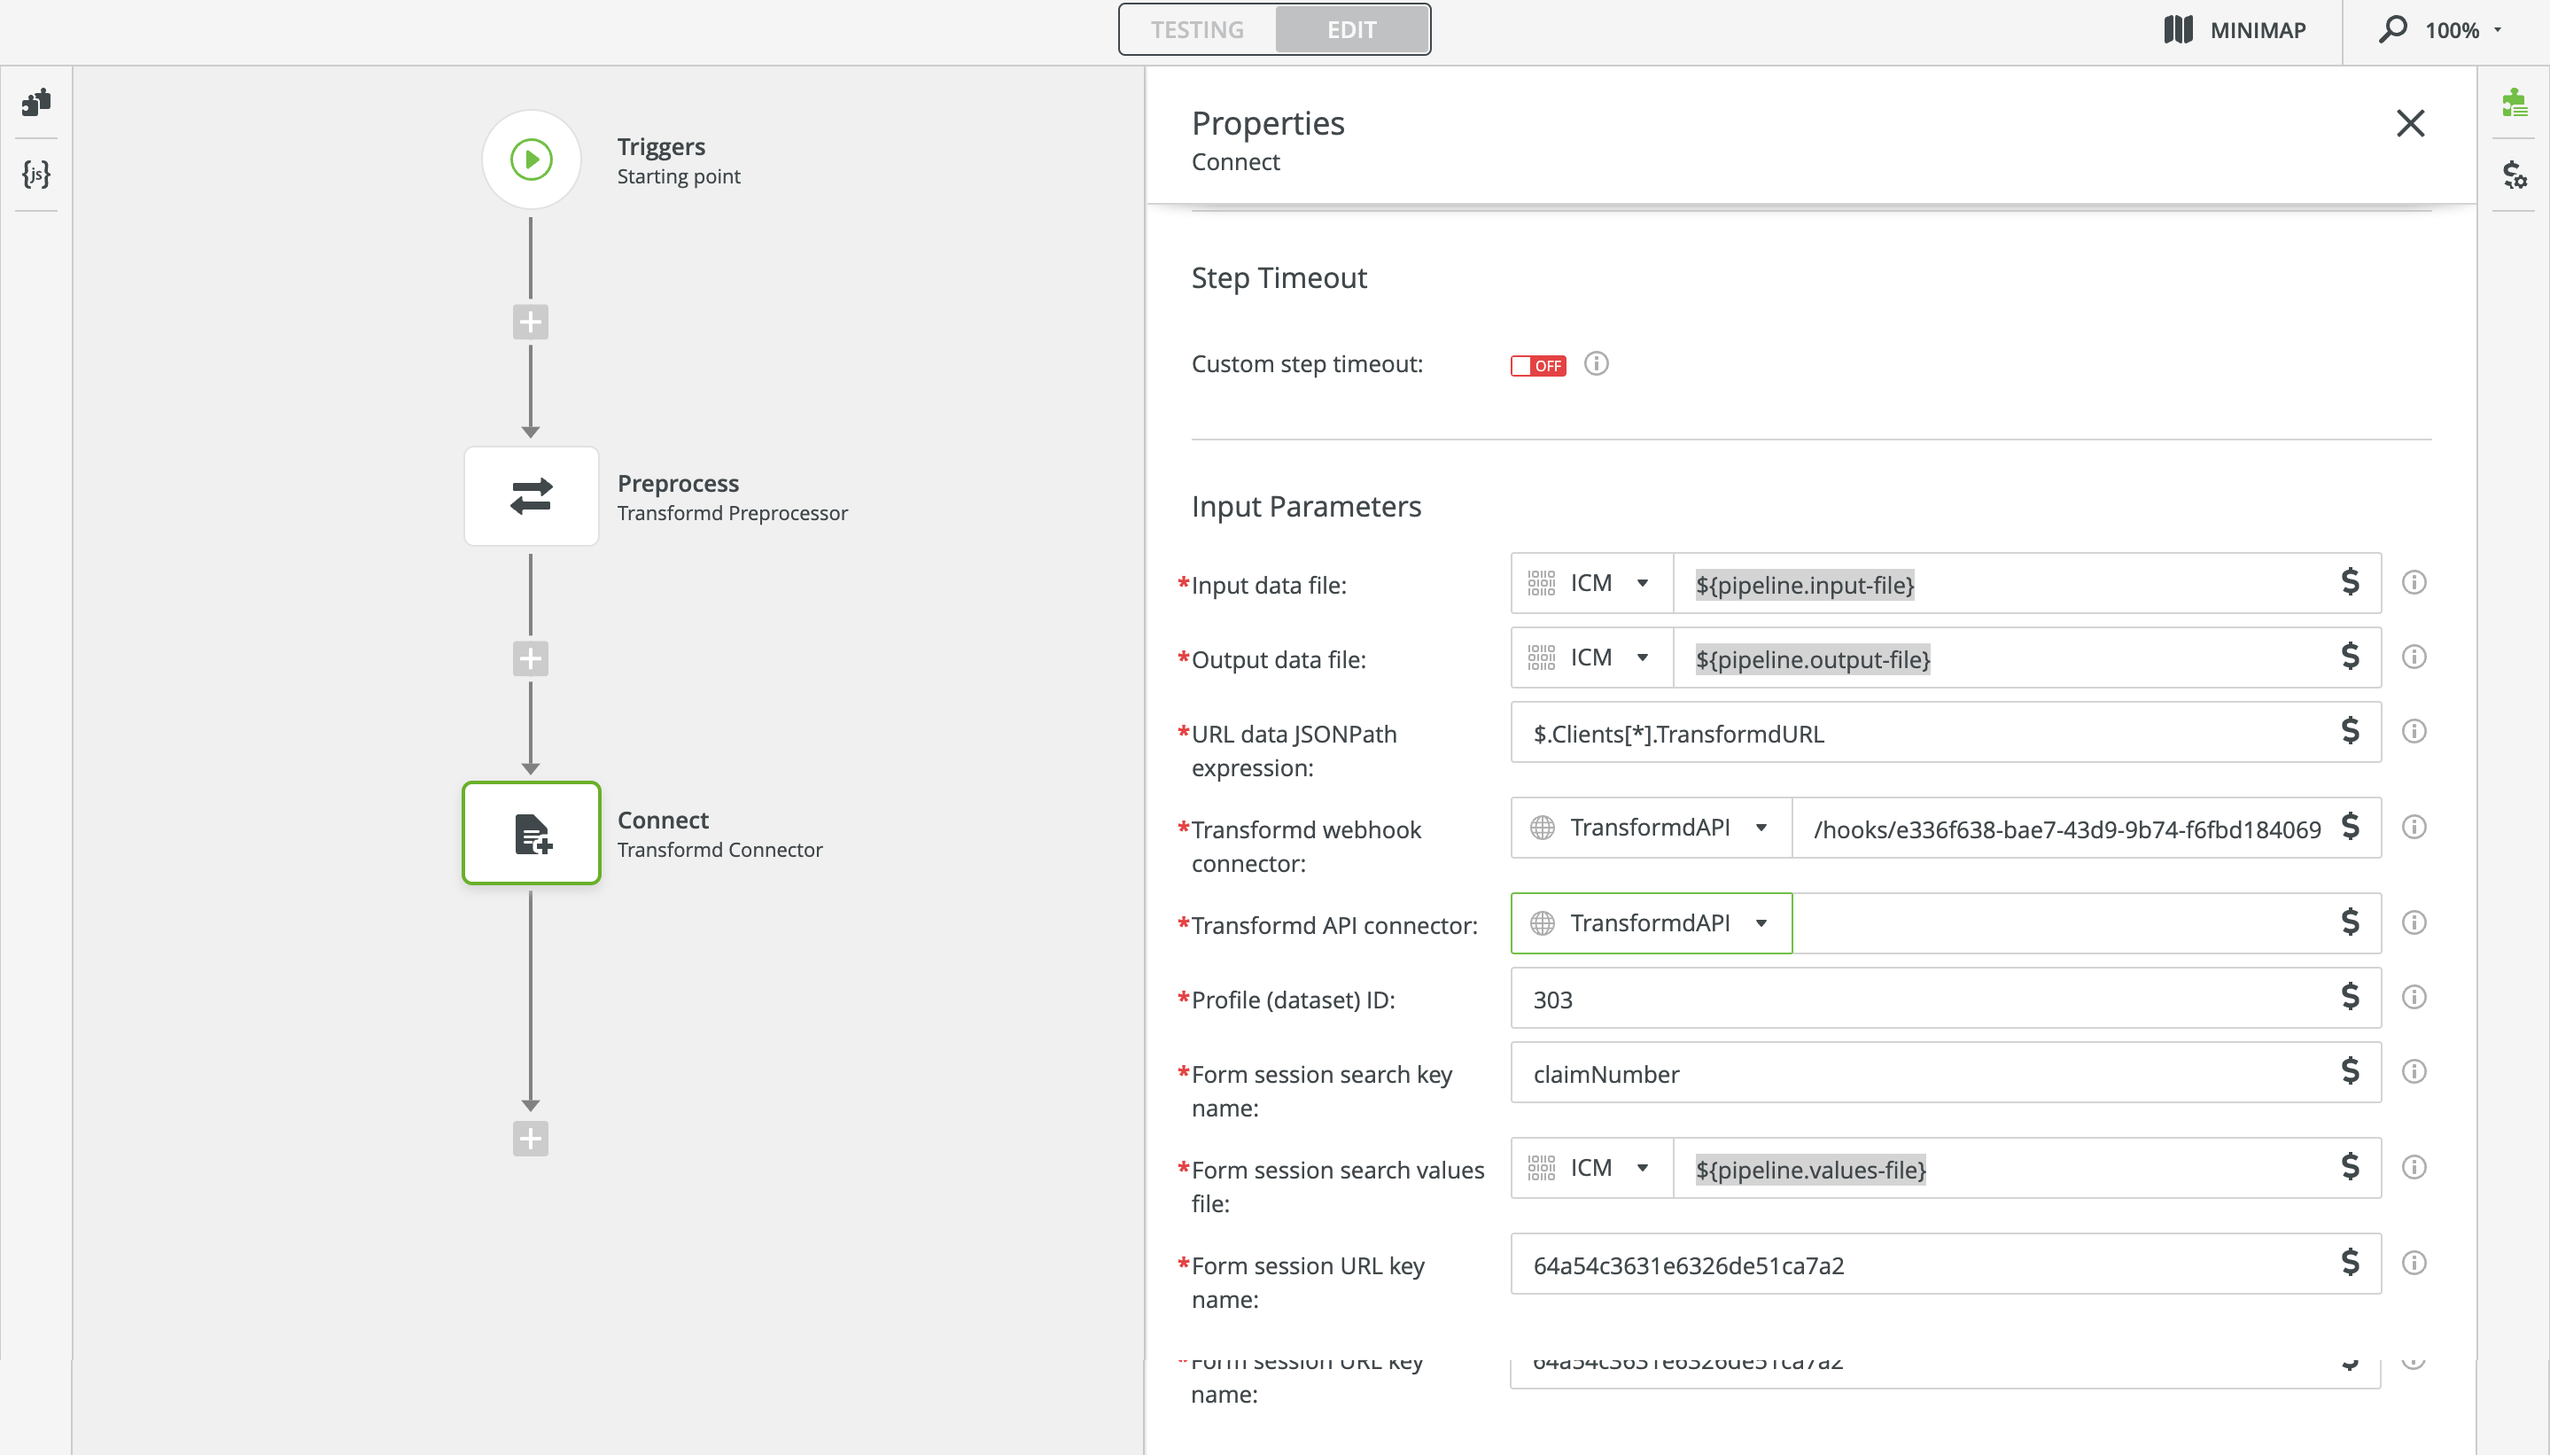
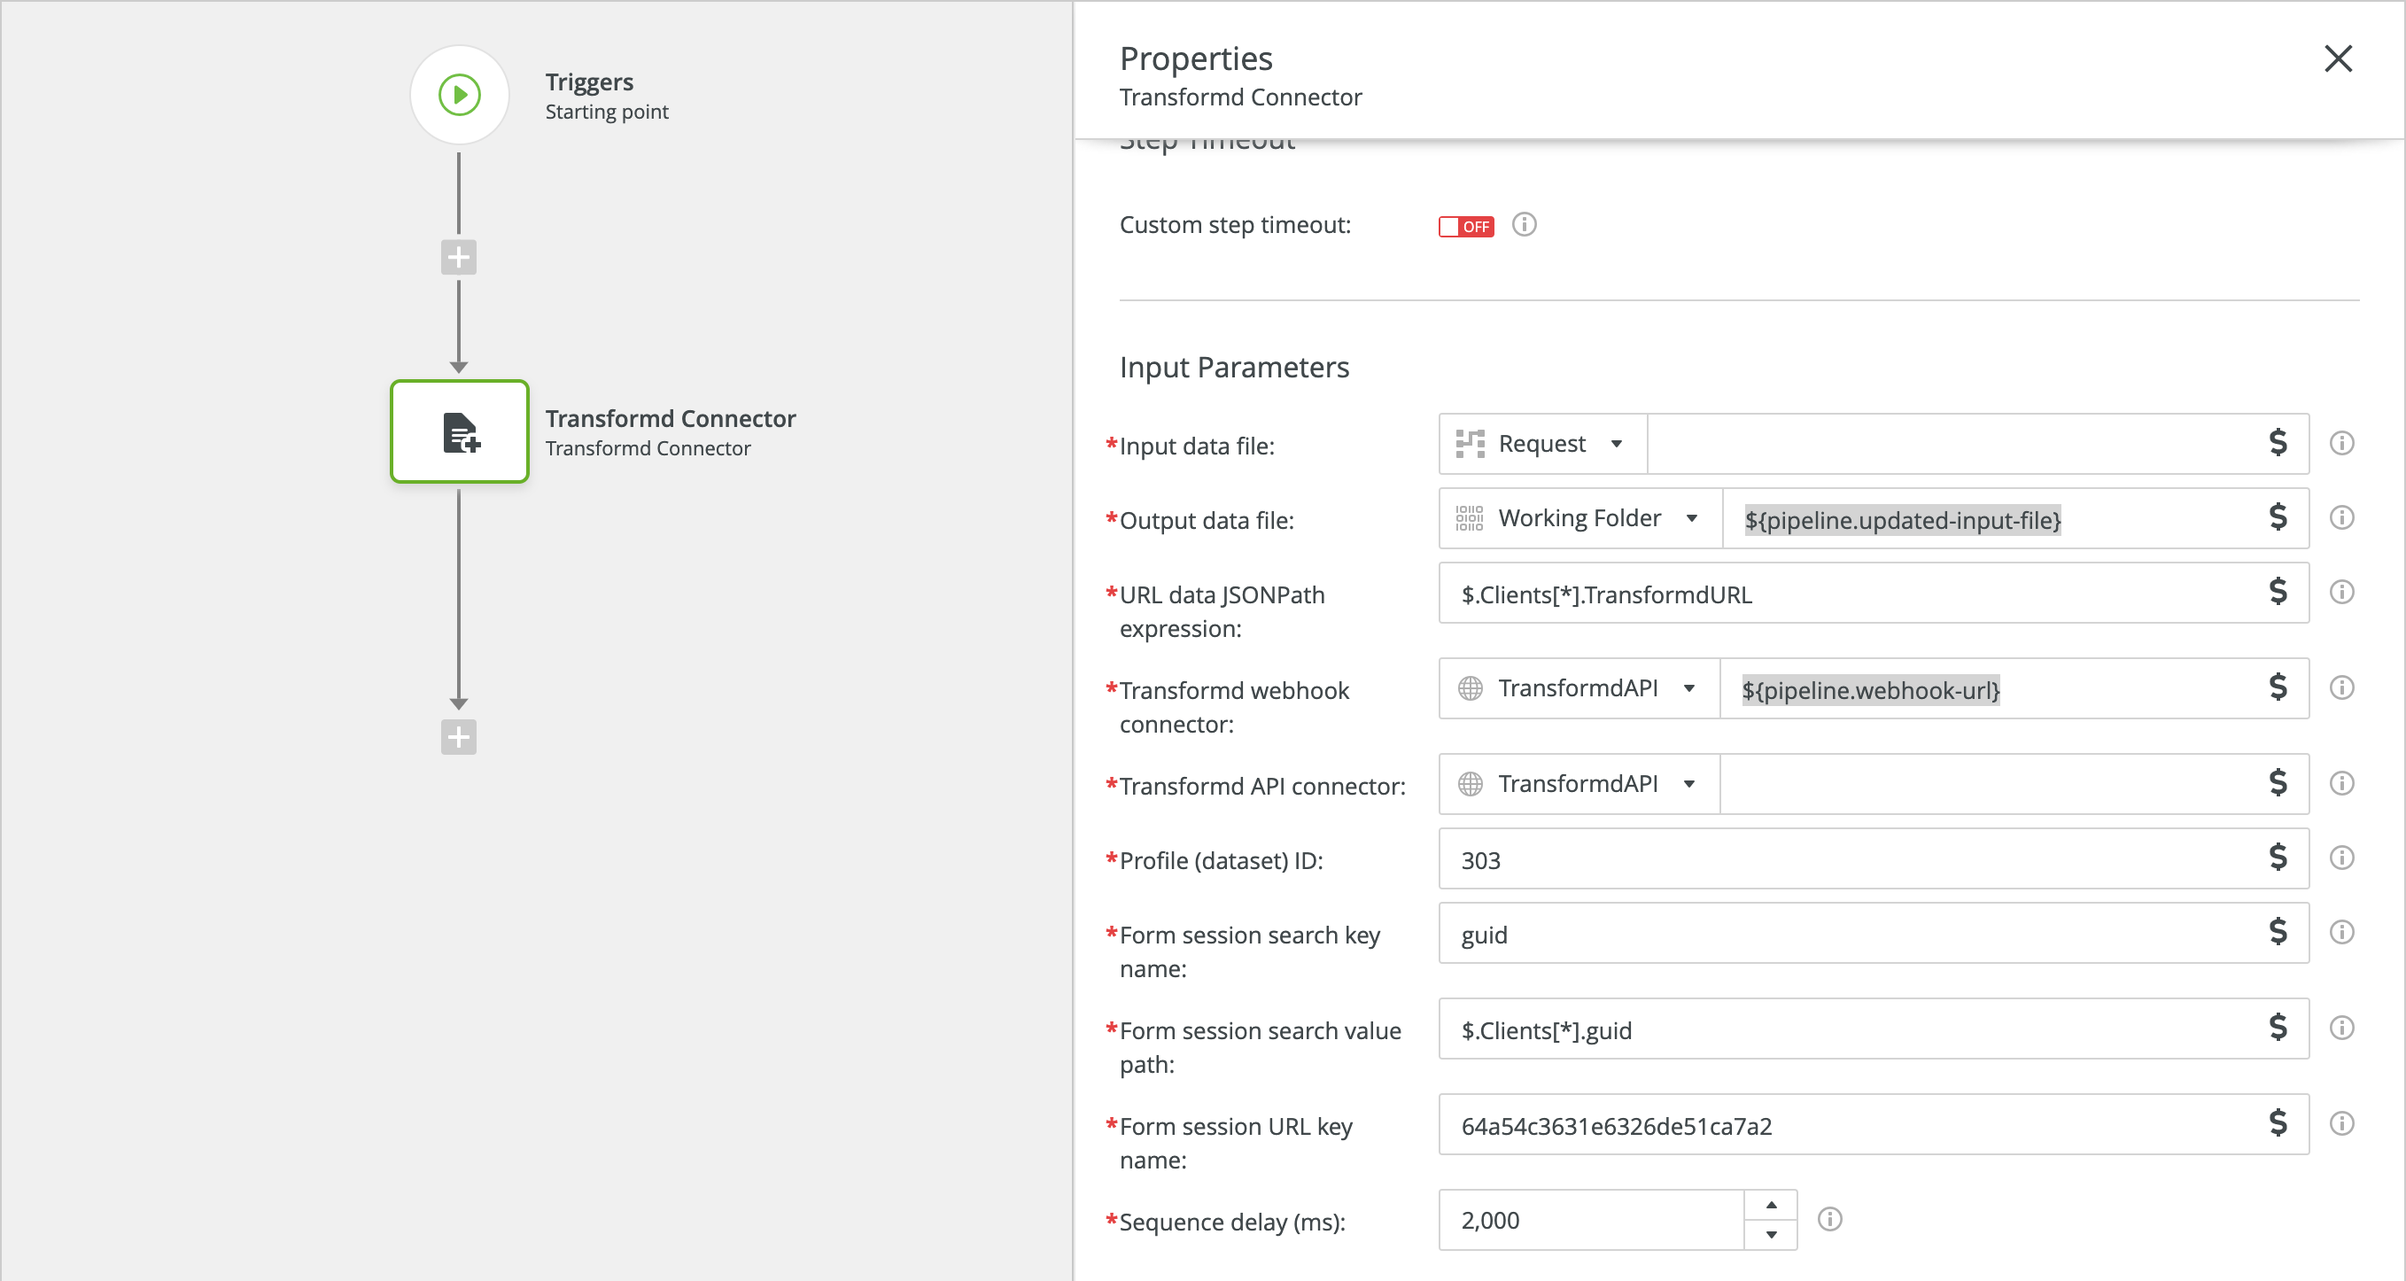
chore: release v0.1.0 (#20)

diff --git a/README.md b/README.md
@@ -44,16 +44,22 @@ npm run build
 Open the **Generate** service UI and select the _Scripting_ section under the
 _Content Manager_ tab. Click the _Upload New_ button to open the Upload New
 Script dialog. Fill out the _Name_ and _Category_ fields. For the _Script_
-field, browse to the `dist/a.js` file in the project directory.
+field, browse to the `dist/a.js` file in the project directory. Click the
+_Upload_ button to upload the script to the server.
 
 ![Upload New Script dialog](doc/upload-new-script.png)
 
-As an alternative, if `swarm` is installed and configured (beyond the scope
-of this document), you can automate the process in the terminal:
+As an alternative, if the [`swarm`](<(https://www.npmjs.com/package/@quadient/swarm)>)
+package is installed and configured (beyond the scope of this document), you
+can automate the process in the terminal:
 
 ```bash
 npm run script-upload
 ```
+
+Regardless of the upload method used, you must click the _Publish Draft_ button
+while highlighting the script you created. Otherwise, the script will not be
+available for use in pipelines.
 
 Still in the _Content Manager_ tab, select the _Connectors_ section and click
 the `+`&nbsp;_New_ button. A completed connector definition can be found below. Be
@@ -64,9 +70,8 @@ sure to publish the new connector before creating a pipeline that will use it.
 To create a pipeline, select the _Processing Pipelines_ section under th
 _Design_ tab. Click the `+`&nbsp;_New_ button to create a pipeline. Click the `{js}`
 (_Custom Modules_) button on the left panel and drag the _Transformd Connector_
-script over to the pipeline. It should follow a
-[Transformd Preprocessor](https://github.com/robertwtucker/transformd-demo-preprocessor)
-step. Complete the properties section as pictured below.
+script over to the pipeline. Complete the properties section as required. An
+example is pictured below.
 
 ![New Pipeline Screen](doc/connector-pipeline.png)
 
